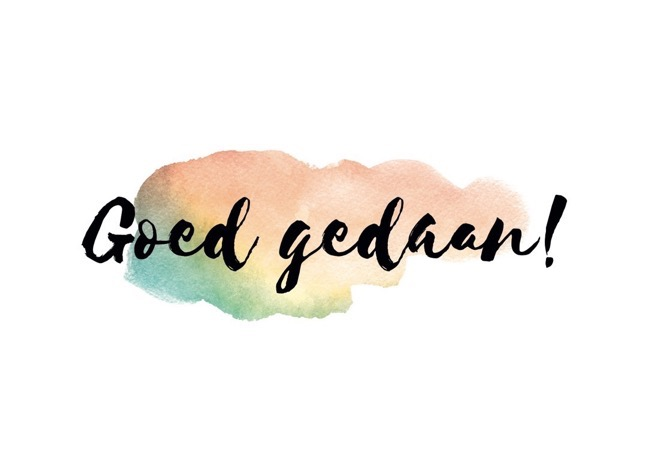
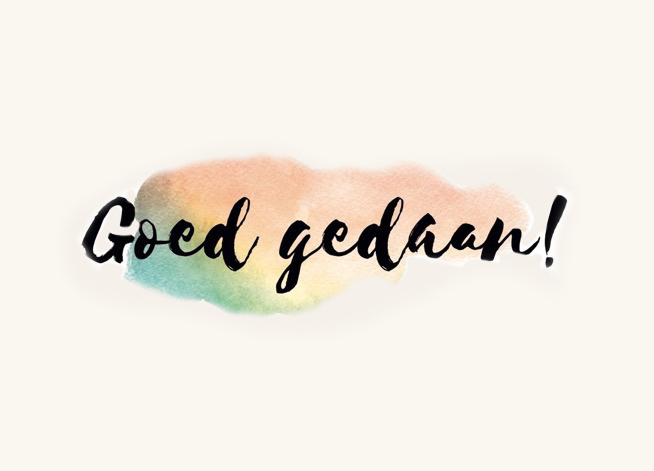
Fixed current task component - styling

diff --git a/src/app/components/current-task/current-task.component.css b/src/app/components/current-task/current-task.component.css
@@ -104,7 +104,10 @@ button.control {
   width: 100vw;
   left: 50%;
   transform: translateX(-50%);
-  margin: 15px auto 35px;
-  padding: 5px 50px 5px 50px;
+  padding: 25px 50px 30px 50px;
 }
-
+:host /deep/ .mat-horizontal-content-container,
+:host /deep/ .mat-horizontal-stepper-header-container,
+:host /deep/ mat-stepper-horizontal {
+  background: #fbf8f3 !important;
+}

diff --git a/src/app/components/current-task/current-task.component.html b/src/app/components/current-task/current-task.component.html
@@ -64,7 +64,7 @@
 
 
             <!-- Finished task step -->
-            <mat-step label="Stap" [completed]="false" [editable]="true">
+            <mat-step label="Einde" [completed]="false" [editable]="true">
 
             <div class="container-fluid step-container">
               <div class="row step-row">
